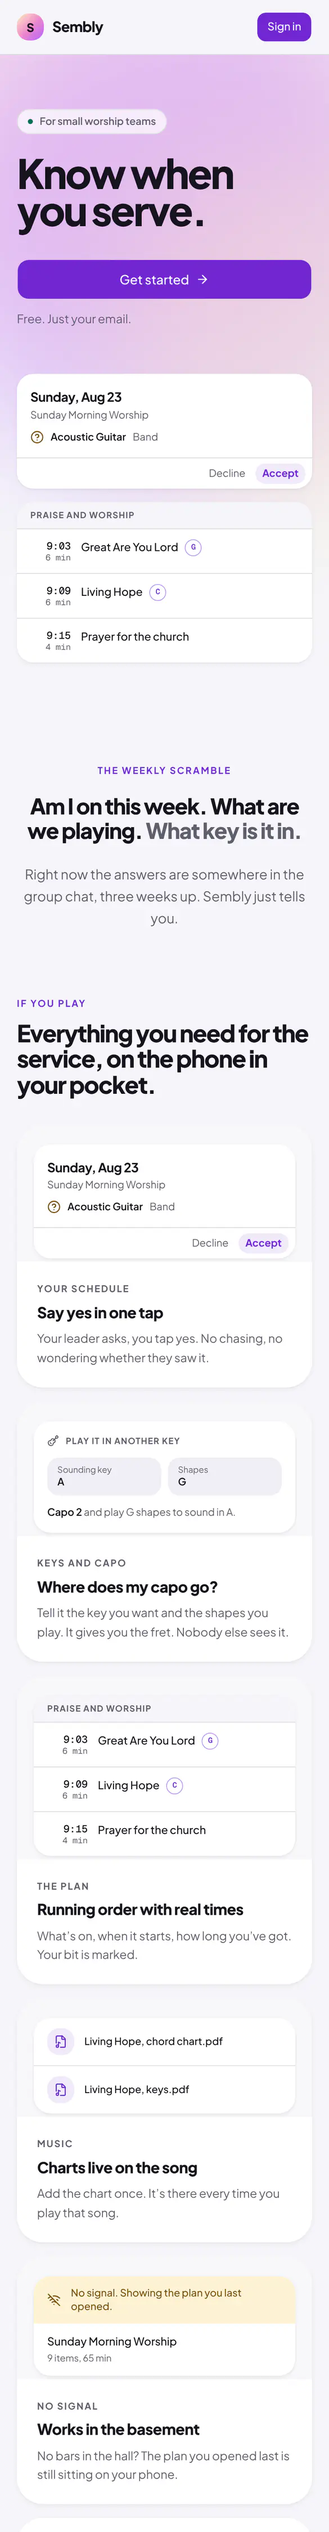
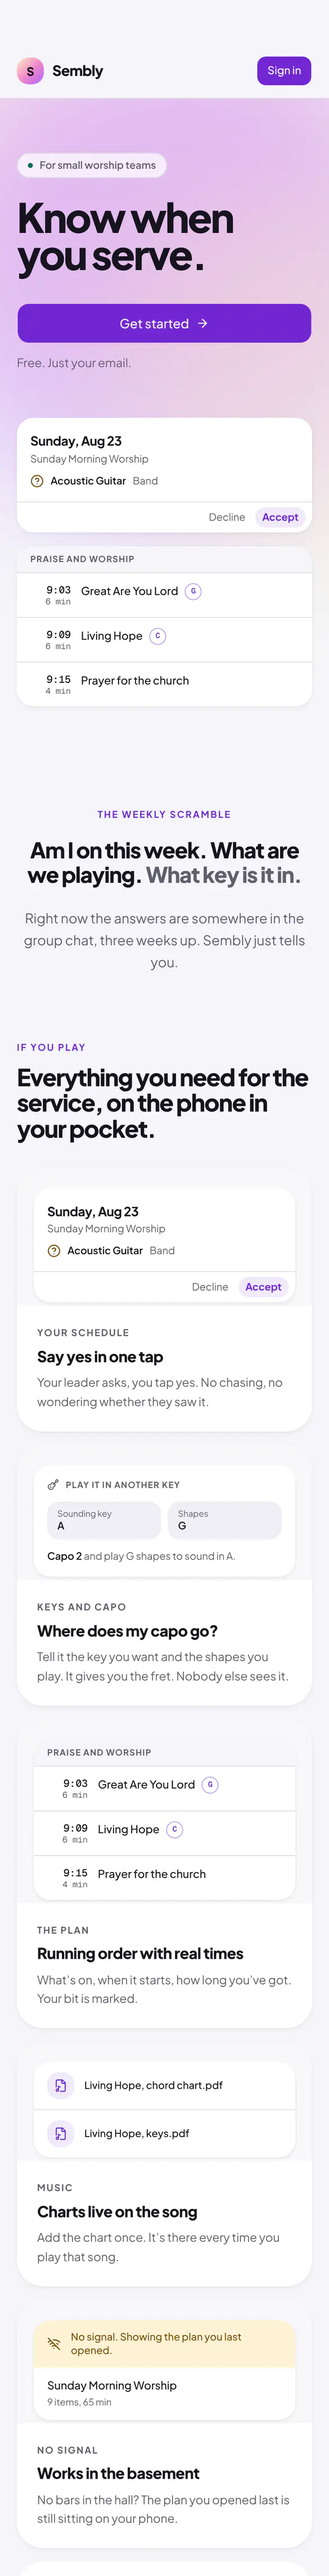
Products: phone shots under a status-bar band; Alongside Events' cut before its pinned steps
Review findings on the previews' screenshots:

- Alongside Events' phone shot ran 3000 CSS px, into the site's
  scroll-pinned "How the night runs" steps, which a still shows as a cream
  void with steps 02 and 03 greyed out, and the loop rested there. It now
  ends at 2180, after step 01 ("Guests order from their table") and the
  night's phone, as the desktop shot already stopped at 2900.
- Each phone shot now starts with a 52px band (54pt of the iPhone 16 Pro's
  874pt screen), filled by repeating the page's first row of pixels, so the
  frame's Dynamic Island sits over a status bar instead of over the site's
  own top bar ("GET STARTED" was under it).
- The script takes a shot kind as well as a product id
  (`node scripts/capture-products.mjs phone`), and prints `captured` as the
  year and month the records hold (data.spec checks YYYY-MM), with the full
  date beside it.

Both phone shots re-captured today from https://alongsideevents.com and
https://sembly.app: 585x3348 (71 KB) and 585x4578 (100 KB). The desktop
shots are unchanged. Sizes and the crop note updated in constants.ts.

Claude-Session: https://claude.ai/code/session_01A3ktvwNhXBDbSCT3FK6Yw7

diff --git a/src/lib/constants.ts b/src/lib/constants.ts
@@ -212,12 +212,14 @@ export const COMPOSITIONS = [
     stack: ['Next.js', 'TypeScript', 'QR ordering', 'Thermal print server'],
     color: '#ffb800',
     // Captured from https://alongsideevents.com on 2026-10-27: its first
-    // 2900 CSS px at 1280 wide (below that the page pins a phone for several
-    // screens, blank in a still), and its first 3000 at 390 wide.
+    // 2900 CSS px at 1280 wide, and its first 2180 at 390 wide (below those
+    // the page pins its "How the night runs" steps for several screens,
+    // blank or greyed out in a still), the phone's under a 52px status-bar
+    // band (scripts/capture-products.mjs).
     preview: {
       captured: '2026-10',
       desktop: { src: '/images/products/alongside-events-desktop.webp', width: 1280, height: 2900 },
-      phone: { src: '/images/products/alongside-events-phone.webp', width: 585, height: 4500 },
+      phone: { src: '/images/products/alongside-events-phone.webp', width: 585, height: 3348 },
     },
   },
   {
@@ -233,11 +235,12 @@ export const COMPOSITIONS = [
     stack: ['Next.js', 'Supabase', 'Tailwind', 'PWA'],
     color: '#af52de',
     // Captured from https://sembly.app on 2026-10-27: its first 4000 CSS px
-    // at 1280 wide and its first 3000 at 390 wide.
+    // at 1280 wide and its first 3000 at 390 wide, the phone's under a 52px
+    // status-bar band (scripts/capture-products.mjs).
     preview: {
       captured: '2026-10',
       desktop: { src: '/images/products/sembly-desktop.webp', width: 1280, height: 4000 },
-      phone: { src: '/images/products/sembly-phone.webp', width: 585, height: 4500 },
+      phone: { src: '/images/products/sembly-phone.webp', width: 585, height: 4578 },
     },
   },
   {
